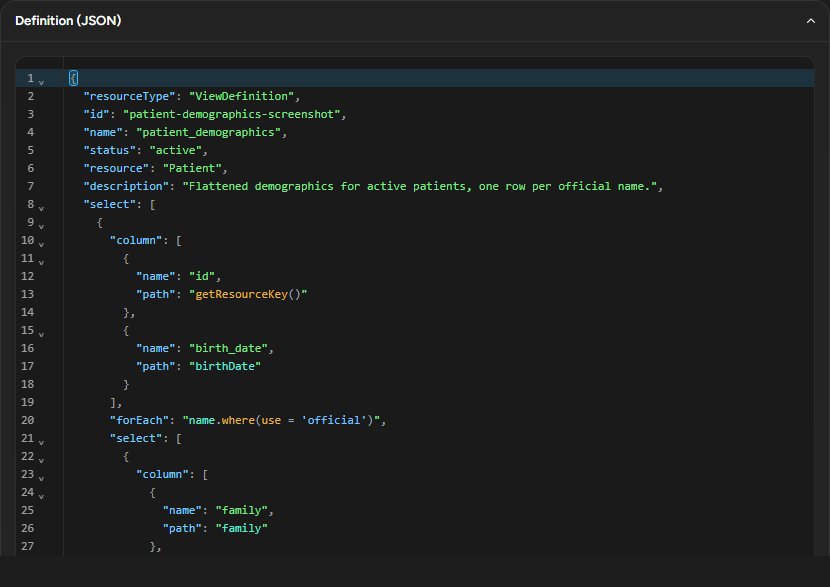
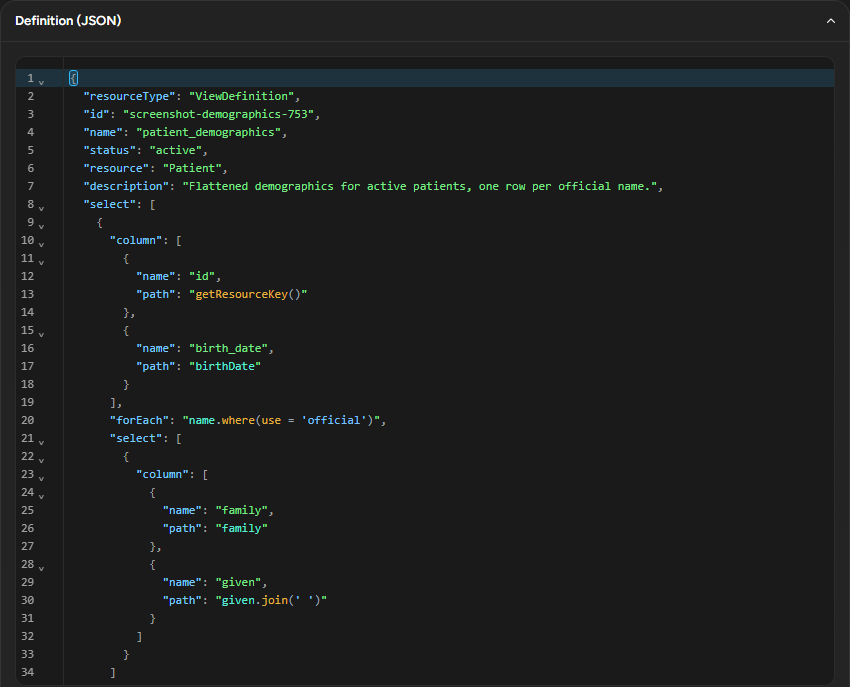
docs(ui): apply the vendored-bundle README exception and refresh editor screenshots (#753)
The evaluation doc proposed an amendment to the UI README's vendored-
scripts rule; with this branch now intended to merge as the editor's
seed, the amendment is applied rather than proposed: the README
documents the one narrow exception (a prebuilt, pinned, license-audited
bundle produced by a documented offline ritual) alongside htmx, and
points at the CodeMirror ritual as its instance. The doc's status,
alternative-C fallback, and out-of-scope sections are updated to the
same framing, and the three screenshots are retaken with the final
editor chrome (visible dark caret, popover-styled lint tooltip, squiggly
only error ranges).

diff --git a/docs/viewdefinition-editor-evaluation.md b/docs/viewdefinition-editor-evaluation.md
@@ -1,6 +1,9 @@
 # ViewDefinition editor: a richer editing surface (decision record)
 
-**Status:** Proposed — evaluation POC on `feat/753-vd-editor-evaluation`, not merged. See
+**Status:** Implemented — the seed landed as
+[#820](https://github.com/HeliosSoftware/hfs/pull/820) (`feat/753-vd-editor-evaluation`),
+ready for review; the follow-up implementation issue (completion, test coverage, i18n,
+generalization — §9) is Blocked by it. See
 [#753](https://github.com/HeliosSoftware/hfs/issues/753) for the original request and the
 comment this doc's findings are summarized into.
 **Scope:** the JSON editor for a ViewDefinition on `/ui/sql/view-definitions`
@@ -243,20 +246,23 @@ either:
   or the configured FHIR version, and the FHIR REST API itself is completely unaware it
   exists.
 
-**If the README amendment is not accepted**, Alternative C (§3) is the fallback: extend the
-existing `editor-sync.js` mirror technique and the `jt--*` CSS tokens (RF6, §3) into a
-text-scanning JSON + FHIRPath highlighter with no build step. What is lost, concretely:
+**The README amendment (§6) was accepted and is applied in this PR.** Alternative C (§3)
+was the fallback this decision record weighed if it were not: extend the existing
+`editor-sync.js` mirror technique and the `jt--*` CSS tokens (RF6, §3) into a text-scanning
+JSON + FHIRPath highlighter with no build step. What would have been lost, concretely:
 **folding** (no tree, no foldable ranges), the **completion popup** (no infrastructure to
 attach suggestions to), and **precise diagnostic locating** (regex/line-counting instead of a
 pointer-to-tree-node walk — every diagnostic would degrade to "somewhere on this line").
-Highlighting alone — the one cell every candidate in §3 supports natively — is achievable
+Highlighting alone — the one cell every candidate in §3 supports natively — was achievable
 either way.
 
-## 6. README amendment (proposed)
+## 6. README amendment (applied)
 
-This epic **does not modify `crates/ui/README.md`.** The following is the exact text this
-decision record proposes for the implementation issue to apply, replacing/extending the
-"no bundler…" and "Assets: vendored & embedded" passages:
+This PR applies the amendment below to `crates/ui/README.md`, replacing/extending the "no
+bundler…" intro paragraph, the "Assets: vendored & embedded" section (a new "The one
+exception: a vendored, prebuilt bundle" subsection), and the "Rules of the road" list — see
+`crates/ui/README.md` itself for the applied wording. Quoted here as the record of what
+changed and why:
 
 > Third-party browser code may be vendored as a prebuilt single-file bundle produced by a
 > documented, checked-in, one-off script under `crates/ui/vendor/`; pinned versions and a
@@ -326,8 +332,9 @@ epic's architecture — not #752's — is what should decide highlighting/comple
 
 ## 9. Out of scope / next
 
-Implementation issue (title provisional): **"ui: ViewDefinition editor — CodeMirror 6 with
-server-side lint and FHIRPath-aware completion (from #753)"**.
+Implementation issue, **Blocked by**
+[#820](https://github.com/HeliosSoftware/hfs/pull/820): **"ui: ViewDefinition editor —
+CodeMirror 6 with server-side lint and FHIRPath-aware completion (from #753)"**.
 
 What the POC branch already has:
 
@@ -337,6 +344,7 @@ What the POC branch already has:
 - A public, structured `helios_sof::lint` with 9 of 10 planned diagnostic codes implemented,
   an endpoint, and an async client-side linter with a gutter (ticket 03).
 - This decision record, screenshots, and the two GitHub drafts.
+- `crates/ui/README.md`'s vendoring-exception amendment (§6), applied.
 
 What is missing (all of it, deliberately, per the epic's own scoping):
 
@@ -349,7 +357,6 @@ What is missing (all of it, deliberately, per the epic's own scoping):
   parser entry point than the one ticket 03 added).
 - Reusing `helios_sof::lint` from `$sql-run` itself for its 422 responses (today it still uses
   the private, first-error-only `validate_view_definition`).
-- `crates/ui/README.md`'s amendment, actually applied (§6 only proposes the text).
 - New Rust + Playwright tests for the editor and the endpoint (`chromium`, `nojs`, `no-cdn`,
   axe) beyond what already incidentally passed against the POC.
 - i18n: no new user-visible strings exist yet (lint messages are English-only from

diff --git a/crates/ui/README.md b/crates/ui/README.md
@@ -19,9 +19,12 @@ partial page updates. Handlers return **full pages** on hard navigations and
 thin.
 
 **There is no React, Vue, Svelte, Alpine, or jQuery here — and no bundler, no
-npm dependency, and no build step for the browser code.** The only vendored
-third-party script is htmx itself; everything else under `assets/` is
-hand-written vanilla JS in an IIFE. Do not introduce a framework.
+npm dependency, and no build step for the browser code, with one narrow,
+documented exception** (see "Assets: vendored & embedded" below). Two
+third-party scripts are vendored: htmx, and — as a prebuilt, never-built-here
+bundle — CodeMirror 6, for the ViewDefinition editor (#753). Everything else
+under `assets/` is hand-written vanilla JS in an IIFE. Do not introduce a
+framework.
 
 Why, over a SPA + JSON API:
 
@@ -92,6 +95,29 @@ stale.
 
 To update htmx, replace `assets/htmx.min.js` with the new pinned release and
 note the version bump in the commit.
+
+### The one exception: a vendored, prebuilt bundle
+
+"No bundler" (above) is the default, not an absolute: a third-party script that
+is a real parser or grammar — not a widget — cannot reasonably be hand-written
+in the style every other asset in this crate uses. For that narrow case:
+
+> Third-party browser code may be vendored as a prebuilt single-file bundle produced by a
+> documented, checked-in, one-off script under `crates/ui/vendor/`; pinned versions and a
+> lockfile are committed alongside it; the script is never executed at build time or in CI;
+> the resulting bundle is never loaded from a CDN; and the bundle ships with its license
+> banner intact.
+
+CodeMirror 6 is the first, and so far only, case this applies to (#753):
+[`crates/ui/vendor/codemirror/`](vendor/codemirror/README.md) is the vendoring
+ritual (pinned npm dependencies, a committed lockfile, a rollup + terser recipe
+run by hand, never by `cargo build` or CI); its one output,
+[`assets/vendor/codemirror.bundle.js`](assets/vendor/codemirror.bundle.js), is
+the vendored bundle itself — embedded and served exactly like every other
+asset in this crate (above), nothing bundler-specific about how it ships. It
+backs the ViewDefinition editor on `/ui/sql/view-definitions`; see
+[`docs/viewdefinition-editor-evaluation.md`](../../docs/viewdefinition-editor-evaluation.md)
+for the full evaluation this amendment is drawn from.
 
 ### Client-side scripts
 
@@ -203,8 +229,10 @@ Errors follow one convention across the Fluent catalogs
   persistence or terminology logic here.
 - **No new browser-facing JSON API** to feed the UI. htmx consumes HTML
   fragments, not JSON.
-- **No SPA framework, no bundler, no npm dependency** for browser code. (The
-  `e2e/` directory has a `package.json`, but that is test-only and never ships.)
+- **No SPA framework, no bundler, no npm dependency** for browser code, with
+  one documented exception — see "Assets: vendored & embedded" above. (The
+  `e2e/` directory also has a `package.json`, but that is test-only and never
+  ships.)
 - **No inline `<script>` blobs or scattered JS.** Prefer `hx-*` attributes
   (Locality of Behaviour); where JS is truly needed, use small pinned assets.
   Inert `type="application/json"` data carriers are the one allowed exception,
